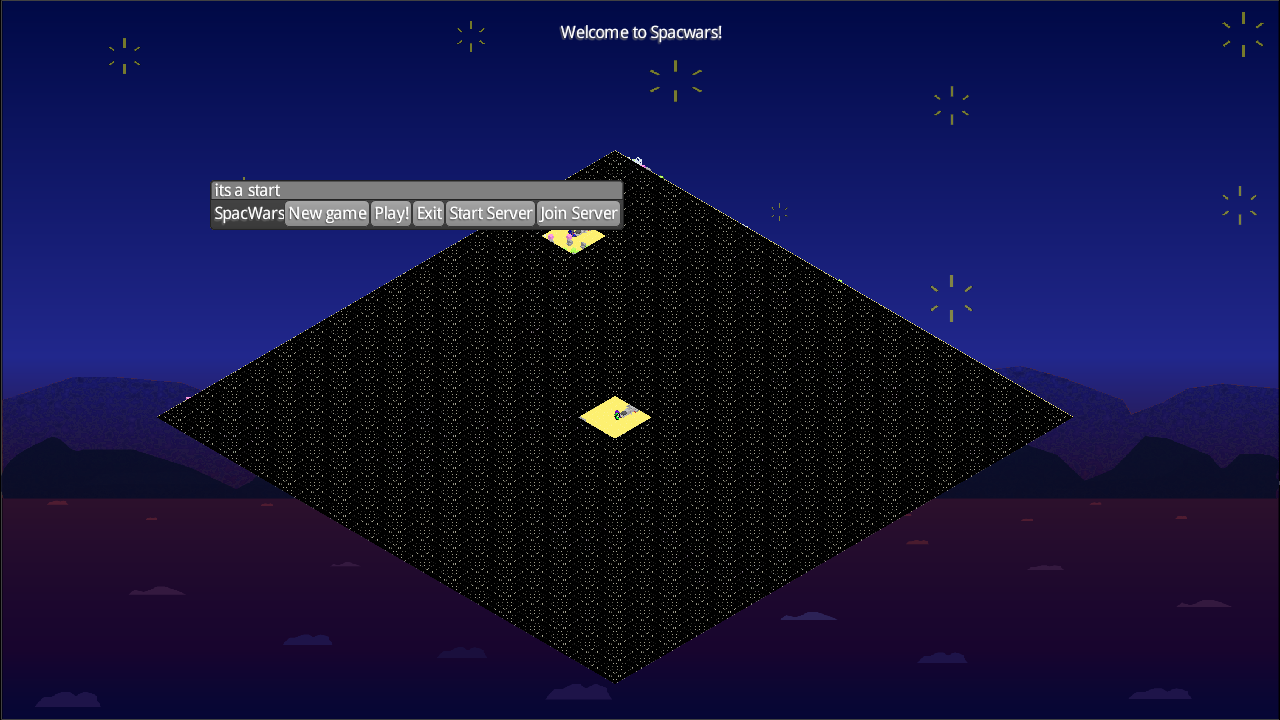
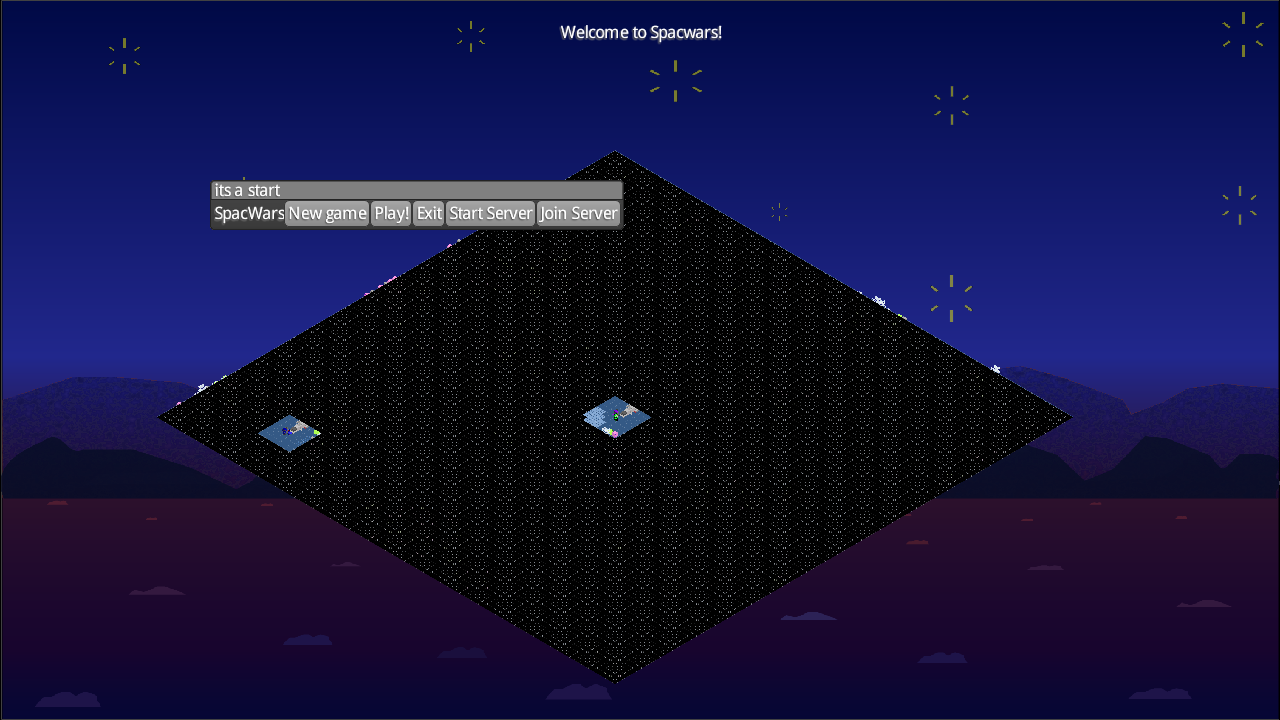
fix fog of war bugs

Changed region(s): [[0.4375, 0.55, 0.5, 0.6111], [0.4062, 0.3056, 0.4688, 0.3667], [0.1875, 0.5806, 0.25, 0.6417]]

diff --git a/marswars/src/main/java/com/deco2800/marswars/worlds/FogWorld.java b/marswars/src/main/java/com/deco2800/marswars/worlds/FogWorld.java
@@ -24,7 +24,7 @@ public class FogWorld {
         return blackFogMap;
     }
 
-    public FogWorld(int width, int length){
+    public static void initializeFogWorld(int width, int length){
         for (int x = 0; x < width; x++) {
             for (int y = 0; y < length; y++) {
                 addEntity(new GrayTile(x,y,1,1f,1f),fogMap);
@@ -33,24 +33,12 @@ public class FogWorld {
         }
     }
 
-//    /**
-//     * fill the fogWorld with gray tiles
-//     * @param width
-//     * @param length
-//     */
-//    public void initializeFogWorld(int width, int length){
-//        for (int x = 0; x < width; x++) {
-//            for (int y = 0; y < length; y++) {
-//                addEntity(new GrayTile(x,y,1,1f,1f));
-//            }
-//        }
-//    }
 
     /**
      * add FogEntity entity to the fog world
      * @param entity
      */
-    public void addEntity(FogEntity entity, ArrayList<FogEntity> fogMap) {
+    public static void addEntity(FogEntity entity, ArrayList<FogEntity> fogMap) {
         //Add to the fog map
         int left = (int)entity.getPosX();
         int right = (int)Math.ceil(entity.getPosX() + entity.getXLength());

diff --git a/marswars/src/main/java/com/deco2800/marswars/MarsWars.java b/marswars/src/main/java/com/deco2800/marswars/MarsWars.java
@@ -157,7 +157,7 @@ public class MarsWars extends ApplicationAdapter implements ApplicationListener 
 	private void fogOfWar() {
 		FogManager fogOfWar = (FogManager)(GameManager.get().getManager(FogManager.class));
 		fogOfWar.initialFog(GameManager.get().getWorld().getWidth(), GameManager.get().getWorld().getLength());
-		new FogWorld(GameManager.get().getWorld().getWidth(),GameManager.get().getWorld().getLength());
+		FogWorld.initializeFogWorld(GameManager.get().getWorld().getWidth(),GameManager.get().getWorld().getLength());
 	}
 	
 	/*
